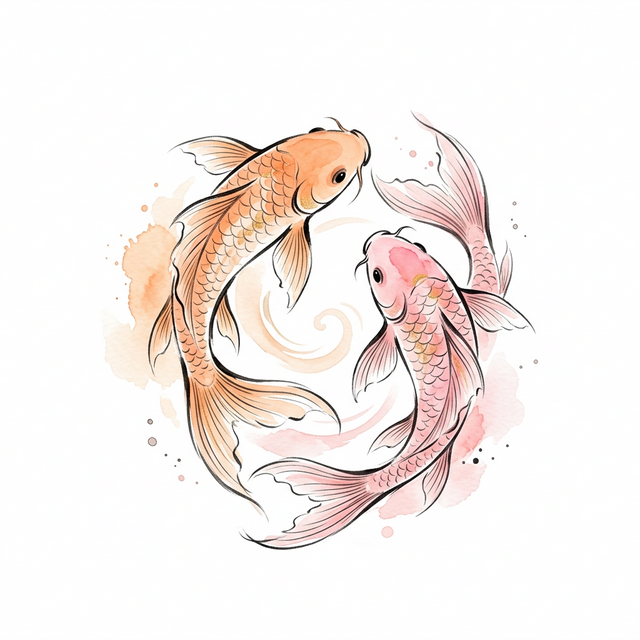
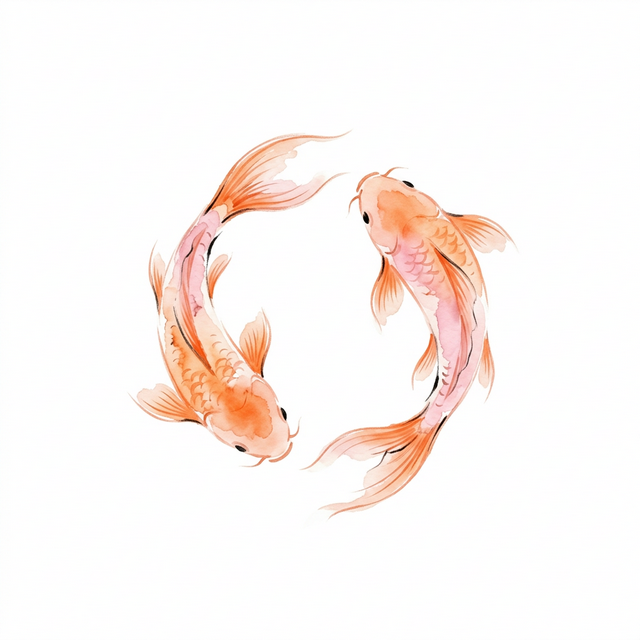
1554

Changed region(s): [[0.1562, 0.1875, 0.8438, 0.875], [0.625, 0.2188, 0.6562, 0.25]]

diff --git a/src/components/SideNavigation.js b/src/components/SideNavigation.js
@@ -55,16 +55,18 @@ const SideNavigation = ({ isOpen, onClose, activeTab, onTabChange, onOpenIngredi
           </button>
 
           <button
-            onClick={() => {
-              onTabChange('community');
-              onClose();
-            }}
-            className={`flex items-center gap-3 w-full p-2 rounded-lg transition-colors ${activeTab === 'community' ? 'bg-purple-50 text-purple-700' : 'text-gray-600 hover:bg-gray-50'}`}
+            disabled
+            className="flex items-center gap-3 w-full p-2 rounded-lg text-gray-400 cursor-not-allowed"
           >
-            <div className={`w-8 h-8 rounded-full flex items-center justify-center ${activeTab === 'community' ? 'scale-110 drop-shadow-md' : ''}`}>
-              <img src={navIconCommunity} alt="社区" className="w-7 h-7 object-contain" />
+            <div className="w-8 h-8 rounded-full flex items-center justify-center">
+              <img 
+                src={navIconCommunity} 
+                alt="社区" 
+                className="w-7 h-7 object-contain" 
+                style={{ mixBlendMode: 'multiply' }}
+              />
             </div>
-            <span className="text-sm font-medium" style={{ fontFamily: '"Songti SC", "STKaiti", "KaiTi", serif' }}>社区</span>
+            <span className="text-sm font-medium" style={{ fontFamily: '"Songti SC", "STKaiti", "KaiTi", serif' }}>社区（即将上线）</span>
           </button>
 
           <button

diff --git a/AI_EXPERIENCE.md b/AI_EXPERIENCE.md
@@ -28,5 +28,6 @@
 
 ## 2026-03-17 社区图标设计与功能上线
 - **视觉一致性**: 在为现有导航系统设计新图标时，使用 `generate_image` 配合精准的 Prompt（如“Oriental Chic”, “modern ink wash painting style”）可以生成与现有手绘/水墨资产高度匹配的素材。
-- **资源管理**: 生成的图标需及时复制到 `src/assets` 并按命名规范（如 `nav_icon_community.png`）接入组件，避免使用占位符或通用 Lucide 图标导致视觉脱节。
+- **资源管理**: 生成的图标需及时复制到 `src/assets` 并按命名规范（如 `nav_icon_community.png`）接入组件。若生成资产带有白边且背景为浅色，可利用 `mix-blend-mode: multiply` 在 CSS 层级实现“模拟扣图”效果。
+- **即将上线功能 (Coming Soon) UX**: 对于未完全开放的功能，若需保持图标色彩，则仅在文字和按钮状态（`disabled`, `text-gray-400`）上体现禁用感。这样可以在引导用户期待的同时，维持界面的色彩和谐。
 - **代码死活逻辑检查**: 在开启“即将上线”的功能时，除了修改 UI 状态，务必检查主应用逻辑中是否已存在对应的渲染分支或路由，避免重复劳动。本次操作发现 `App.js` 已预留 `community` 渲染分支，仅需打通导航入口。
